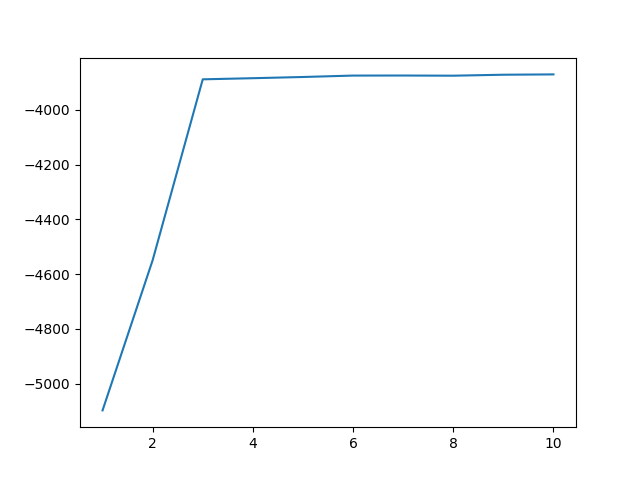
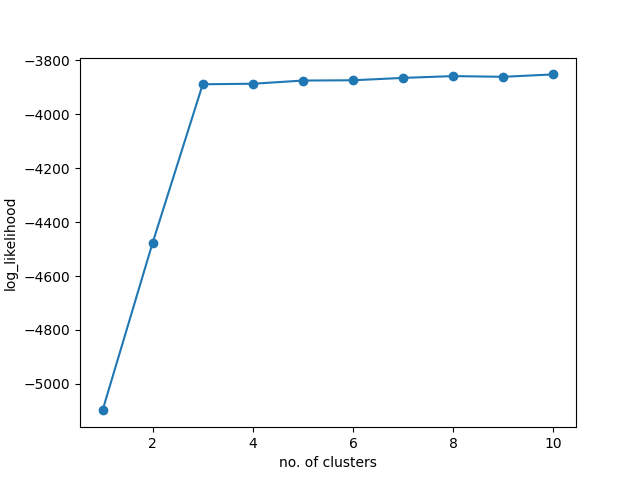
done ig

diff --git a/Offline3/GMM.py b/Offline3/GMM.py
@@ -2,7 +2,7 @@ import numpy as np
 from scipy.stats import multivariate_normal
 from matplotlib import pyplot as plt
 class GMM:
-    def __init__(self, k, max_iter=30):
+    def __init__(self, k, max_iter=1000):
         self.k = k
         self.max_iter = int(max_iter)
 
@@ -43,17 +43,22 @@ class GMM:
 
     def fit(self, X, plot_steps=False):
         self.initialize(X)
+        self.log_likelihood=self.calculate_log_likelihood(X)
         if plot_steps:
             plt.ion()
             self.fig, self.ax = plt.subplots()
-            scatter = self.ax.scatter(X[:, 0], X[:, 1])
-
         # Iterate between E-Step and M-Step until convergence
         for _ in range(self.max_iter):
+            
             self.e_step(X)
             #print(self.weights)
             self.m_step(X)
+            log_likelihood=self.calculate_log_likelihood(X)
+            #check if log_likelihood has converged
+            
+            
             if plot_steps:
+                scatter = self.ax.scatter(X[:, 0], X[:, 1])
                 for mean, cov in zip(self.mu, self.sigma):
                     x, y = np.mgrid[min(X[:, 0]):max(X[:, 0]):.01, min(X[:, 1]):max(X[:, 1]):.01]
                     pos = np.empty(x.shape + (2,))
@@ -63,6 +68,12 @@ class GMM:
                 # Update the data in the scatter plot
                 scatter.set_offsets(X)
                 plt.pause(0.05)
+            if abs(log_likelihood-self.log_likelihood)<1e-3:
+                break
+            self.log_likelihood=log_likelihood
+            if plot_steps:
+                self.ax.clear()
+       
 
             
     def probability(self, X):

diff --git a/Offline3/main.py b/Offline3/main.py
@@ -12,8 +12,17 @@ if __name__ == '__main__':
         log_likelihoods.append([k,gmm.calculate_log_likelihood(X)])
     #plot a graph where x axis is log_likelihoods[i][0] and y axis is log_likelihoods[i][1] and save it as a png file
     plt.plot([log_likelihoods[i][0] for i in range(len(log_likelihoods))],[log_likelihoods[i][1] for i in range(len(log_likelihoods))])
+    plt.xlabel('no. of clusters')
+    plt.ylabel('log_likelihood')
+    #plot scatter plot of log_likelihoods
+    plt.scatter([log_likelihoods[i][0] for i in range(len(log_likelihoods))],[log_likelihoods[i][1] for i in range(len(log_likelihoods))])
+
     plt.savefig('log_likelihoods.png')
+    plt.clf()
+    #find the best k from log_likelihoods
+    best_k=int(input("Enter the best k from the graph:"))
     
-    gmm=GMM(k=3)
+    gmm=GMM(k=best_k)
     gmm.fit(X,plot_steps=True)
-    plt.savefig('gmm.gif', dpi=100, bbox_inches='tight')
+    plt.savefig('best_k.png')
+    
